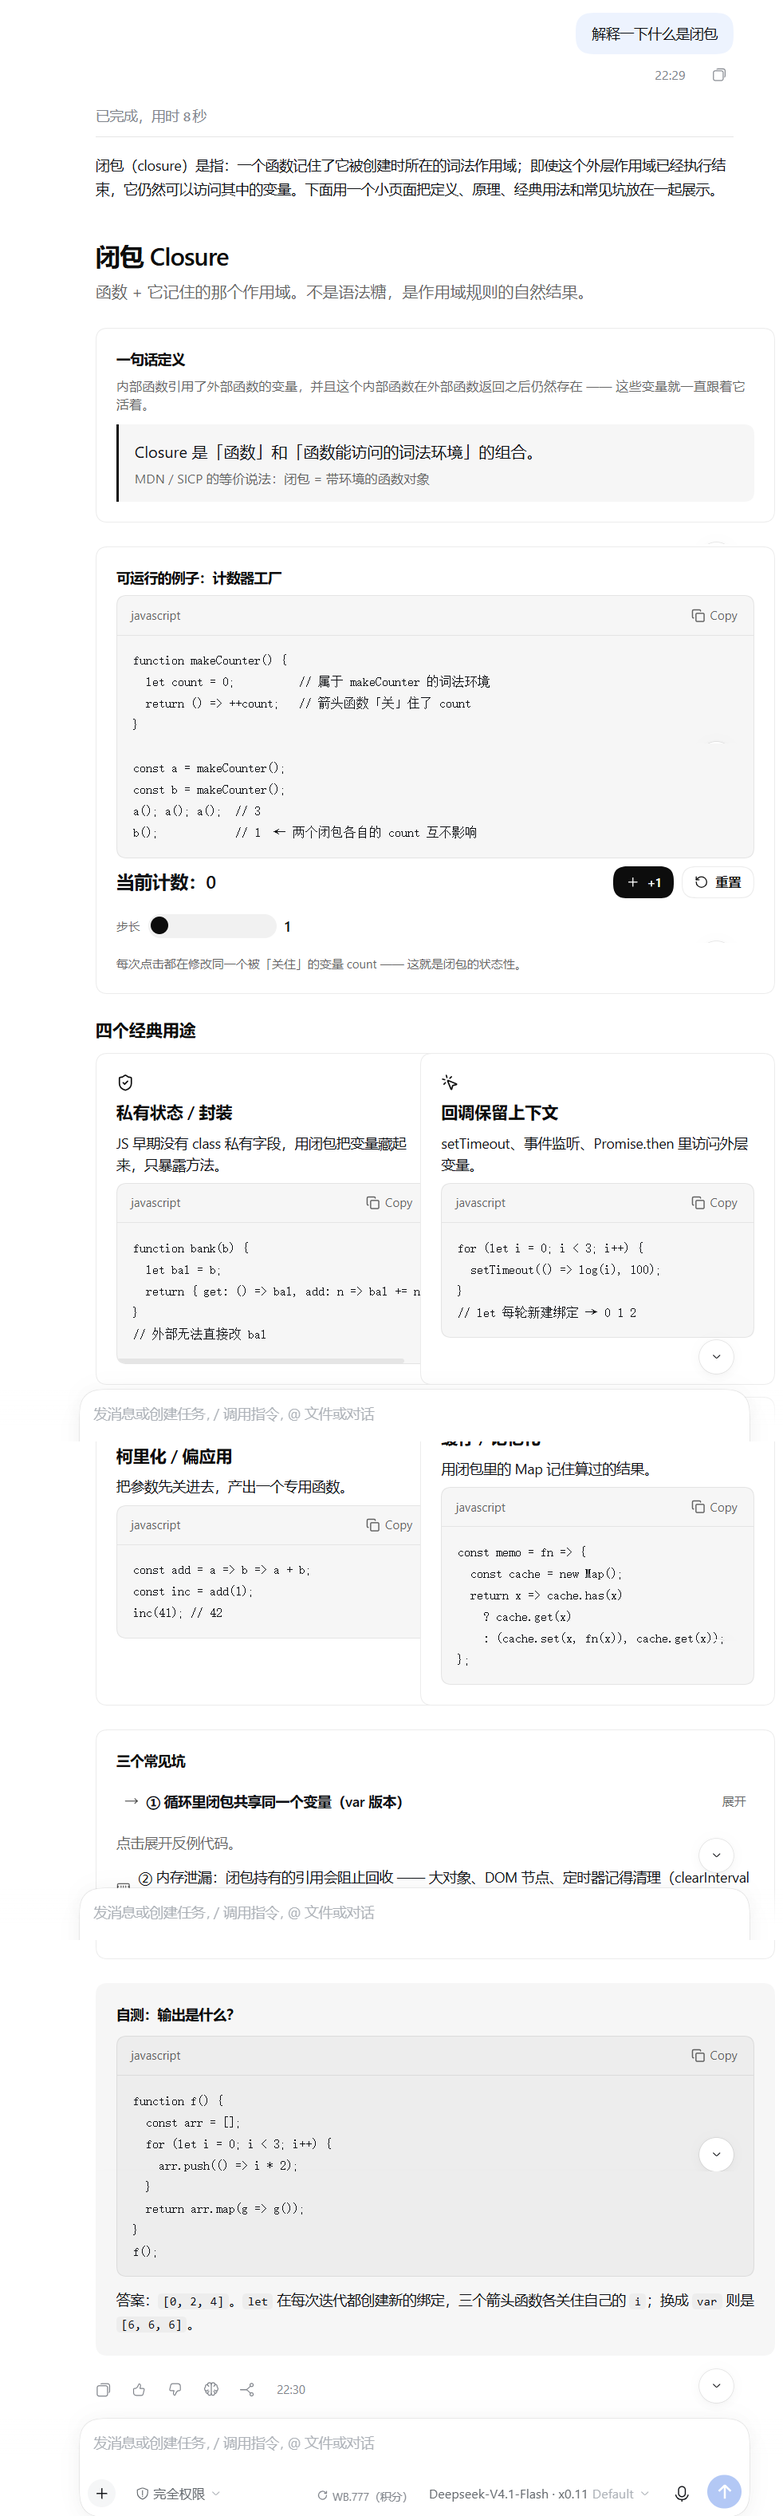
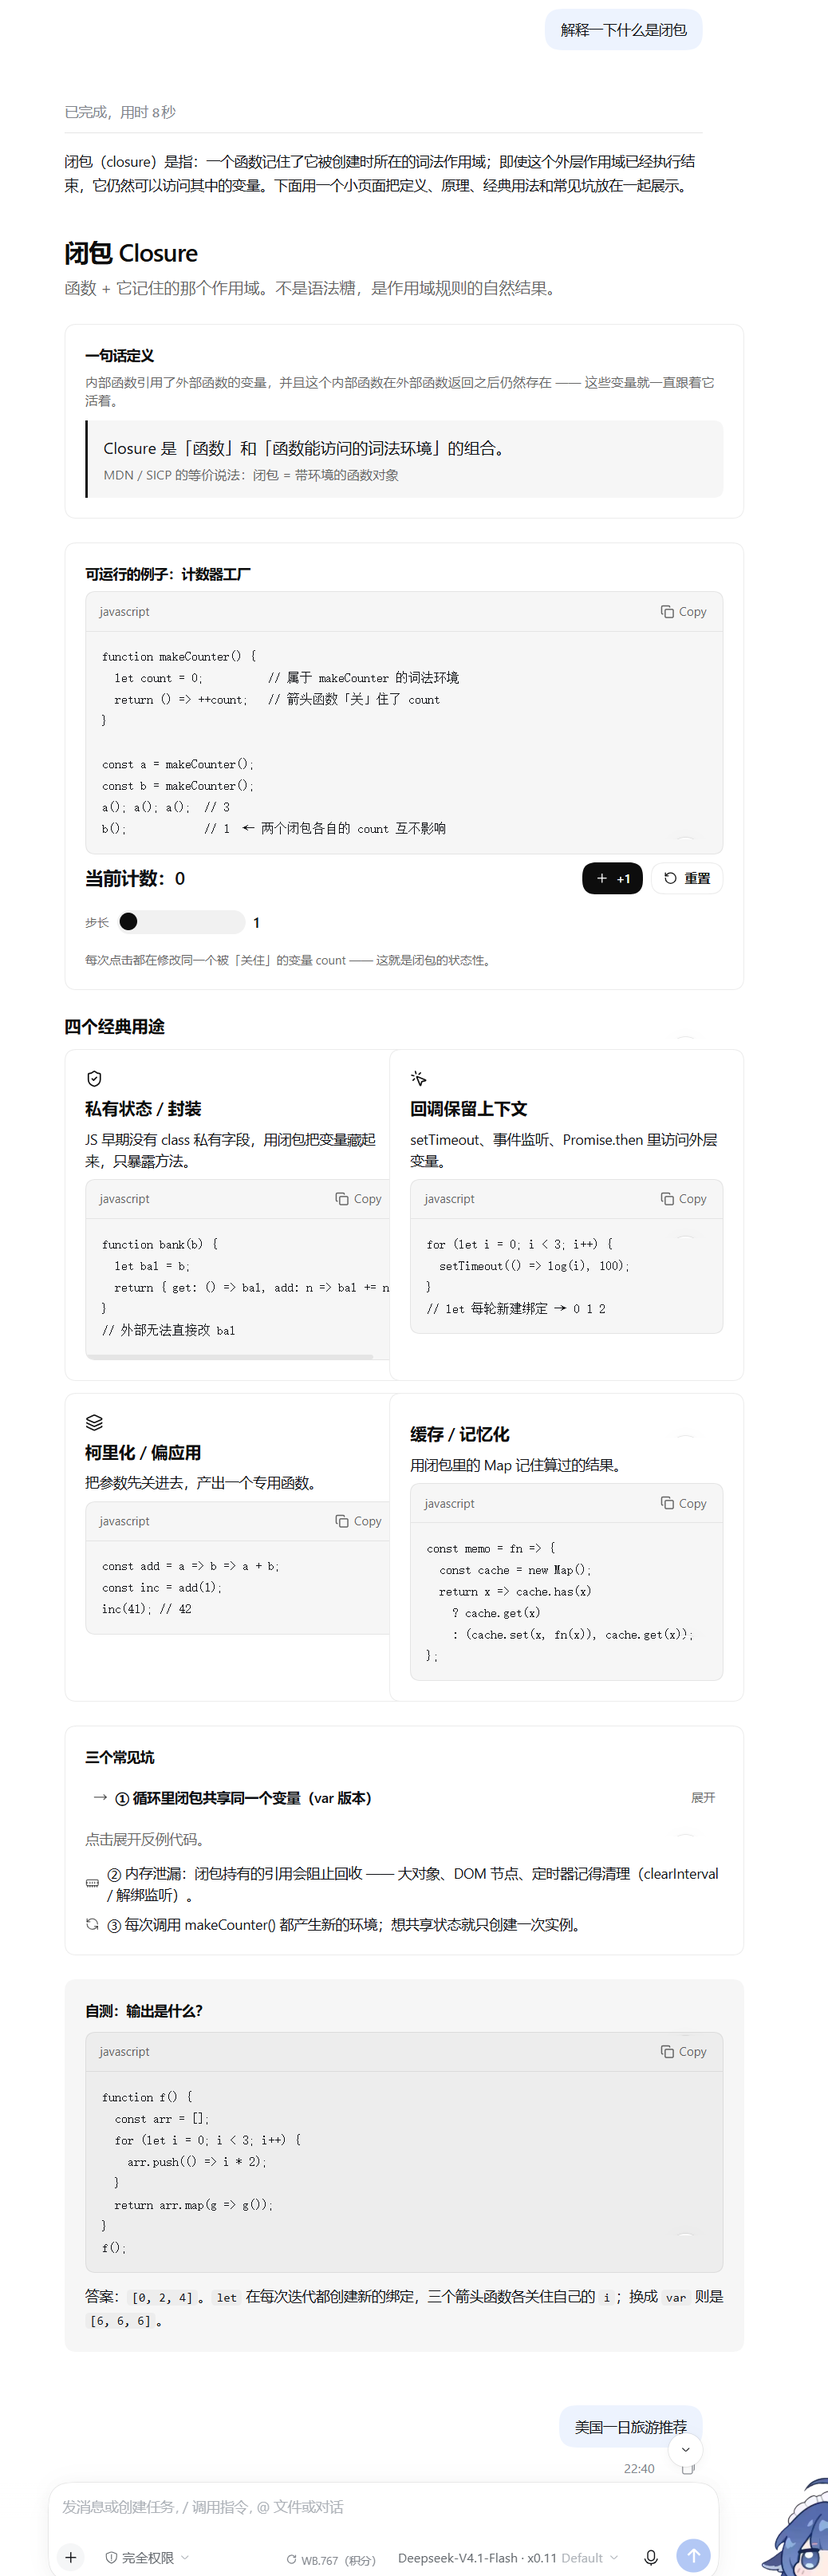
docs: use the newer closure screenshot, add the bookshelf demo
- docs/screenshot-closure.png replaced with the updated capture
- docs/screenshot-bookshelf.png added (SVG step drawings + step switcher)
- README: bold maintainer line at the top

diff --git a/README.md b/README.md
@@ -10,11 +10,17 @@ a chart, a step-by-step drawing, a photo carousel, a small map.
 > Pure plugin: it patches nothing inside DSH and touches no file in `app.asar`, so it survives
 > desktop updates and can be copied to any DSH installation.
 
+**此为大肥鱼开发插件，如有问题请使用大肥鱼进行维修！！**
+
 ## 效果截图
 
 | 概念解释：分块卡片 + 计数器 + 折叠区块 | 一日游推荐：图片卡片 + 对比表 + 选择器 |
 | --- | --- |
 | ![closure](docs/screenshot-closure.png) | ![travel](docs/screenshot-travel.png) |
+
+| 分步图纸：SVG 绘图 + 步骤切换 + 步骤缩略图 |
+| --- |
+| ![bookshelf](docs/screenshot-bookshelf.png) |
 
 Every answer ends with one fenced ` ```ui ` block; the plugin hides that fence and draws the
 card in its place. Nothing else in the transcript changes.
